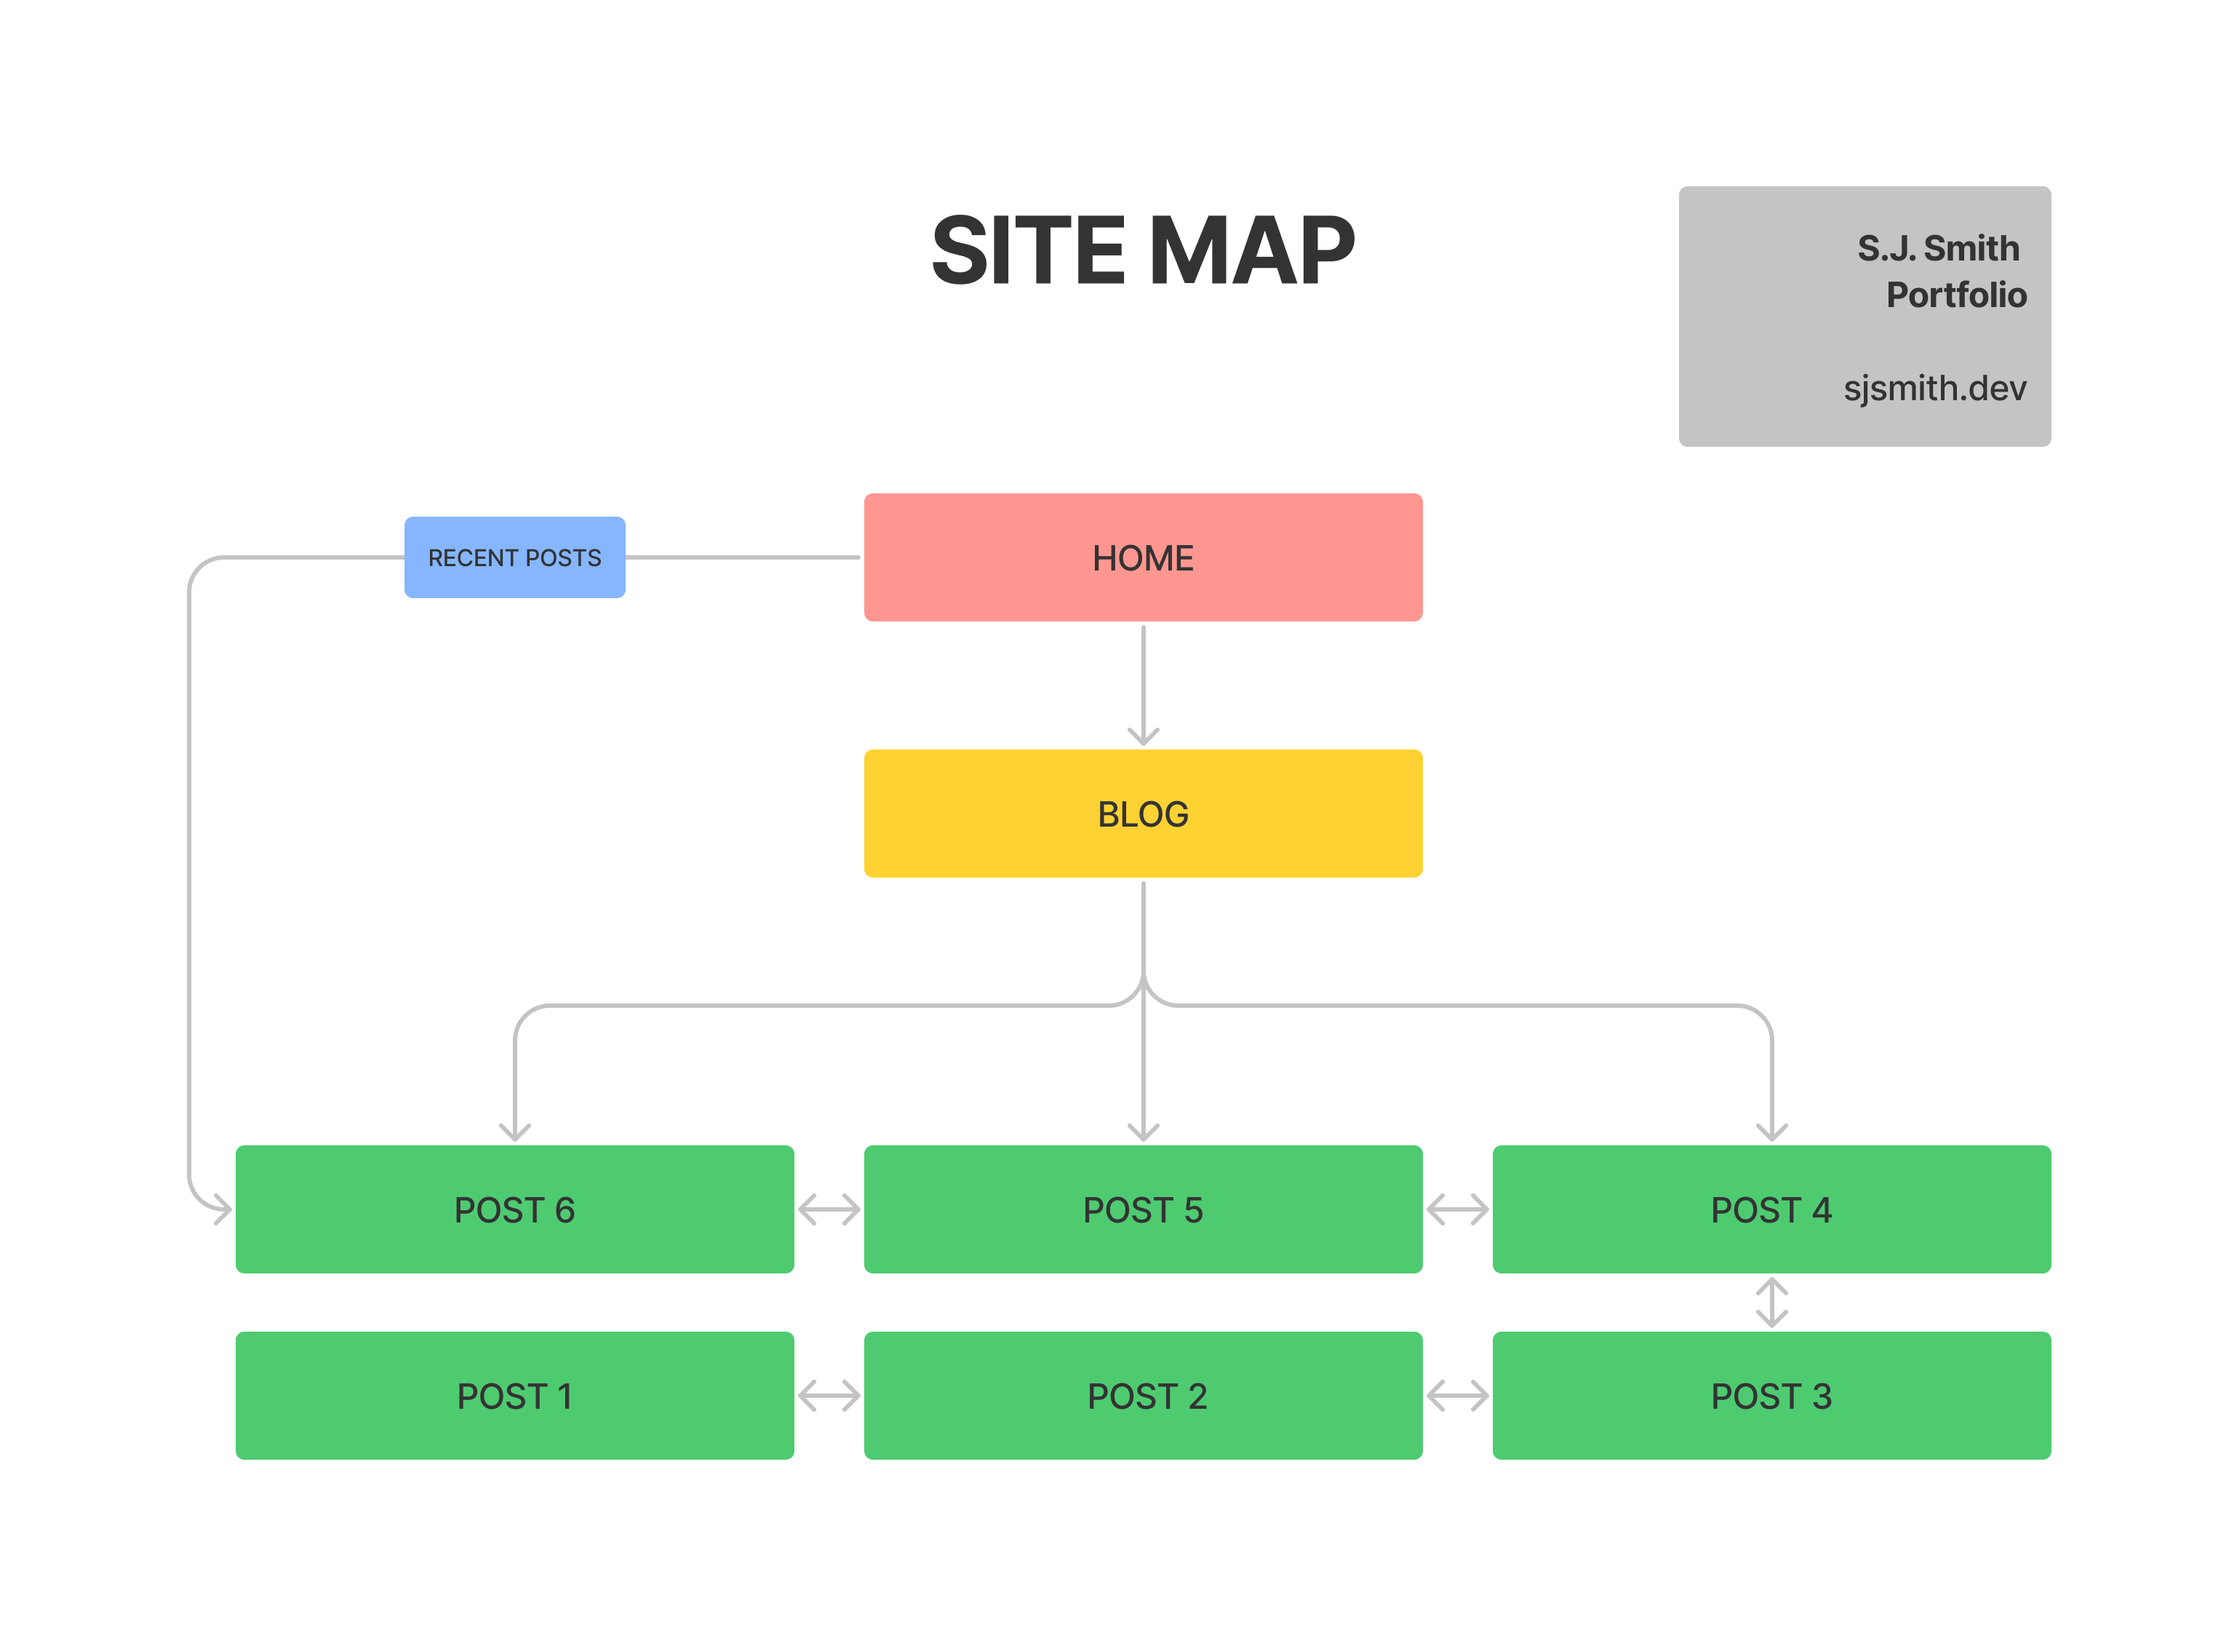
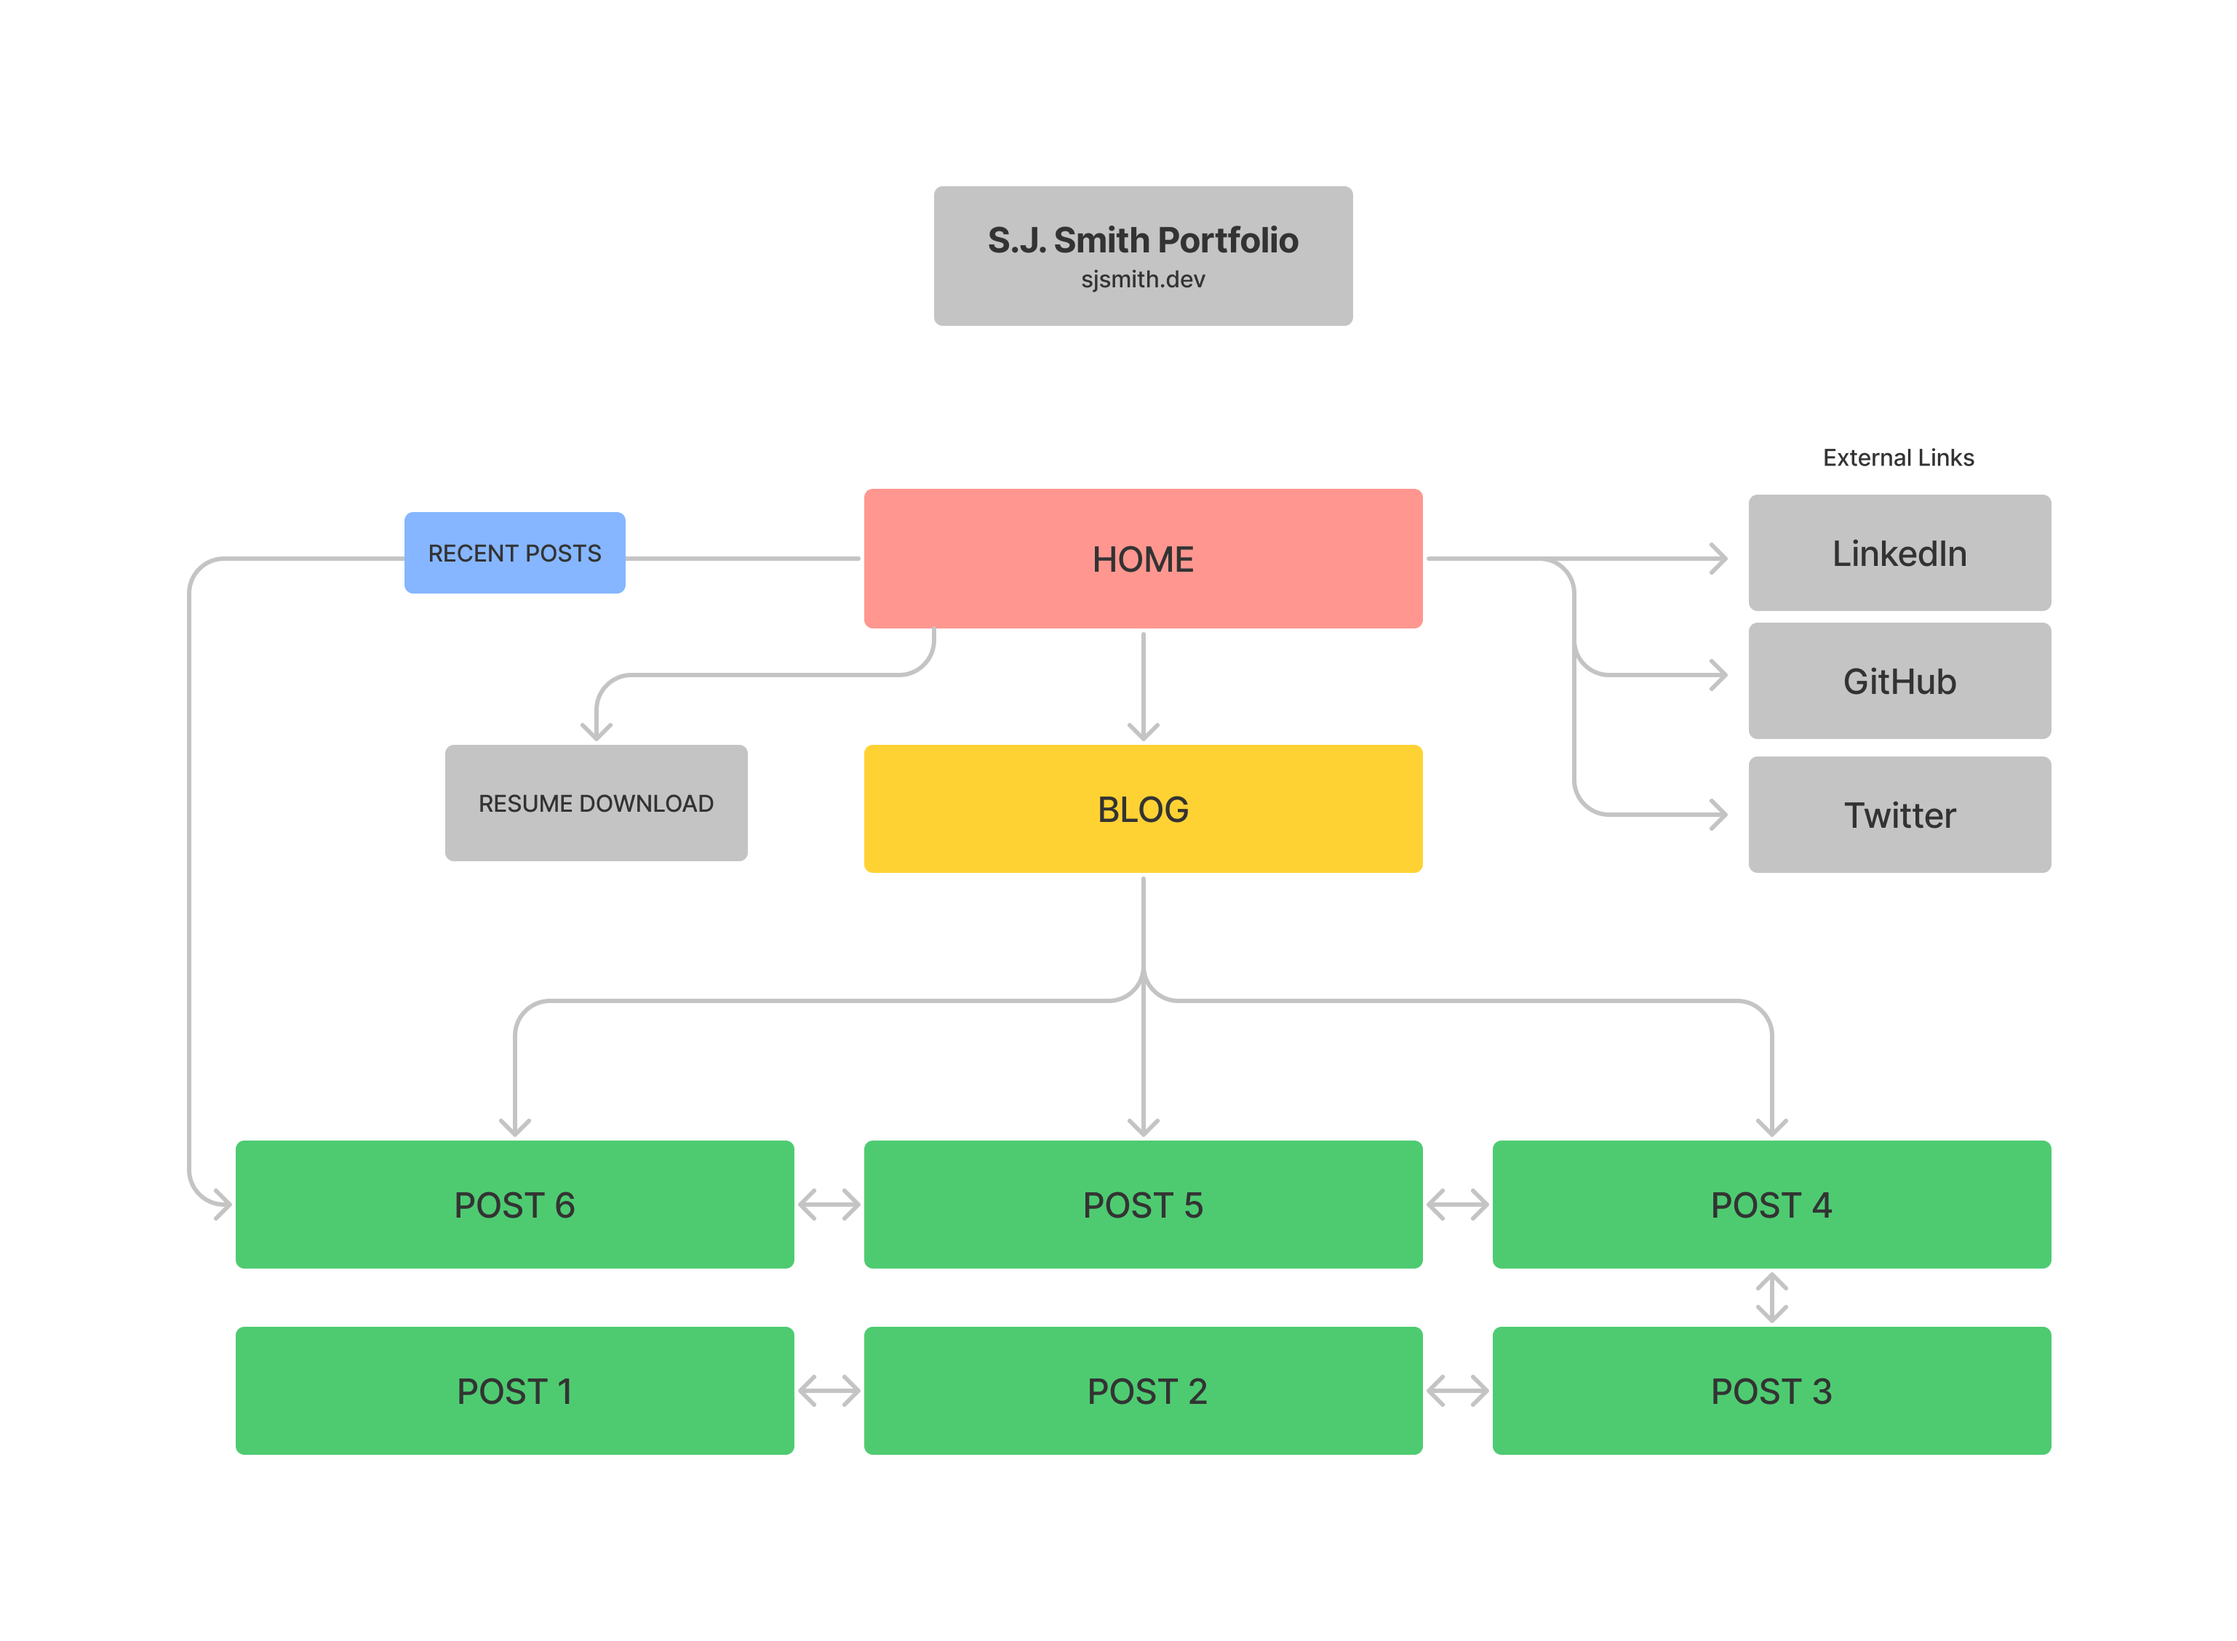
changed directory, added screenshots

diff --git a/README.md b/README.md
@@ -1,21 +1,44 @@
 <img src="./readme-images/hero.png" style="margin-bottom: 50px">
 
-# S.J. Smith Portfolio
 
+# <a id="top"></a> S.J. Smith Portfolio
 
 Website: https://smith-sj.github.io/portfolio/
 
 Github: https://github.com/smith-sj/portfolio
 
+## Table of Contents
+
+- [Purpose](#purpose)
+- [Target Audience](#target-audience)
+- [Tech Stack](#tech-stack)
+- [Functionality & Features](#functionality)
+- [Sitemap](#sitemap)
+- [Screenshots](#screenshots)
+
+
 ---
 
-## About
+## <a id="purpose"></a> Purpose
 
-The purpose of this portfolio is to demonstrate my skill and experience as a full-stack web developer to recruiters and potential employers. It is also an archive of blog posts for anyone who may be interested, including articles about web development, tutorials, and general news.
+[[back to top]](#top)
+
+The purpose of the project is to demonstrate my programming skills and experience to recruiters and potential employers. It is also an opportunity to show my personality and provide some insight into my creative process and personal aesthetic. Finally, it is an archive of articles for anyone who may be interested in web dev discussion, tutorials, and general news.
 
 ---
 
-## Built With
+## <a id="target-audience"></a> Target Audience
+
+[[back to top]](#top)
+
+- Recruiters
+- Employers
+- Web dev enthusiasts
+
+---
+
+## <a id="tech-stack"></a> Tech Stack
+[[back to top]](#top)
 - HTML
 - CSS
 - JavaScript
@@ -24,14 +47,16 @@ Deployed on Github Pages
 
 ---
 
-## Key Objectives
+## <a id="functionality"></a> Functionality & Features
 
-The following are some key objectives that I wanted to achieve while designing and building my portfolio.
+[[back to top]](#top)
+
+The two main objectives I kept in mind while designing the functionality of my website were:
 
 1. **Create a responsive, mobile first website**
 1. **Use accessible and inuitive design**
 
-## Creating a responsive, mobile first website:
+### Creating a responsive, mobile first website:
 
 This objective focused on designing the website from a **mobile user's perspective**, before making adjustments to suit tablet and desktop users. *Mobile first* isn't just about viewports and layouts, but also involves consideration of the overall site map and functionality of each component. One of the first major decisions I made in this particular area, was to try and fit my important content on a single, well-organised and scrollable page. I had already decided that my website would take a minimal approach to content, as I wanted the reader to quickly and easily understand my skills, interests and personality, without being overwhelmed with information.
 <img align="left" style="margin: 20px" width="300" height="auto" src="./readme-images/accordian_screenshot.png">
@@ -62,7 +87,7 @@ In terms of responsivity; thanks to the simple nature of my portfolio's design, 
  <img align="right" style="margin: 20px" width="300" height="auto" src="./readme-images/swapped-highlight.png">
 
 
-## Using accessible and inuitive design methods:
+### Using accessible and inuitive design methods:
 
 My biggest focus in this area was making sure to use semantic HTML, as well as making sure that all switches, filters and links were accessible via the tab, space and enter key. I also tested my portfolio's colors across diferrent visual impairments. As I used the checkbox hack to build the theme-switch and blog category filters, I had to make sure to not just hide the checkbox, but rather shape it to the labels and make them transparent instead of setting them to `hidden`. This meant that although you can't see them, tabbing to the checkboxes creates an outline around the switch and filters, and allows them to be toggles or activated.
 
@@ -72,14 +97,19 @@ Mozilla Firefox's accessibility tools made it easy for me to see how my portfoli
 
 ---
 
-## Sitemap
+## <a id="sitemap"></a> Sitemap
+[[back to top]](#top)
 
 The sitemap for my portfolio is farily straight forward; considering most of the content is contained on the homepage, the only other page required was a blog archive. A post navigator is included at the bottom of each blog post, in case the reader is enjoying my content and would like to keep reading; this makes for a smooth transition between blog posts, with no extra steps.
 
-I also included a **Recent Posts** section on the homepage, which acts as another entry point into the blog post loop.
+I also included a **Recent Posts** section on the homepage, which acts as another entry point into the blog post loop. The home page also has a link to my resume download and external links to my professional social media accounts.
 
  <img style="margin: 20px" height="auto" src="./site-map.png">
 
+---
 
+## <a id="screenshots"></a> Screenshots
 
+[[back to top]](#top)
 
+---
